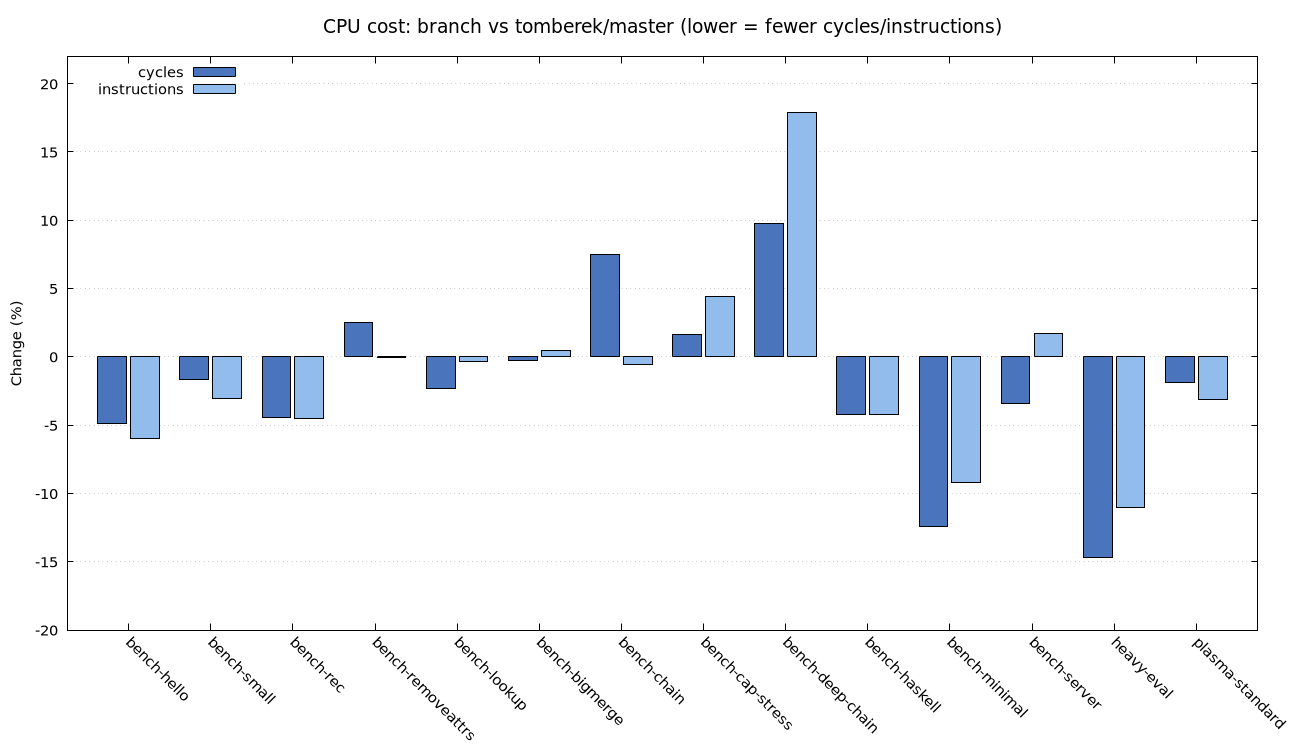
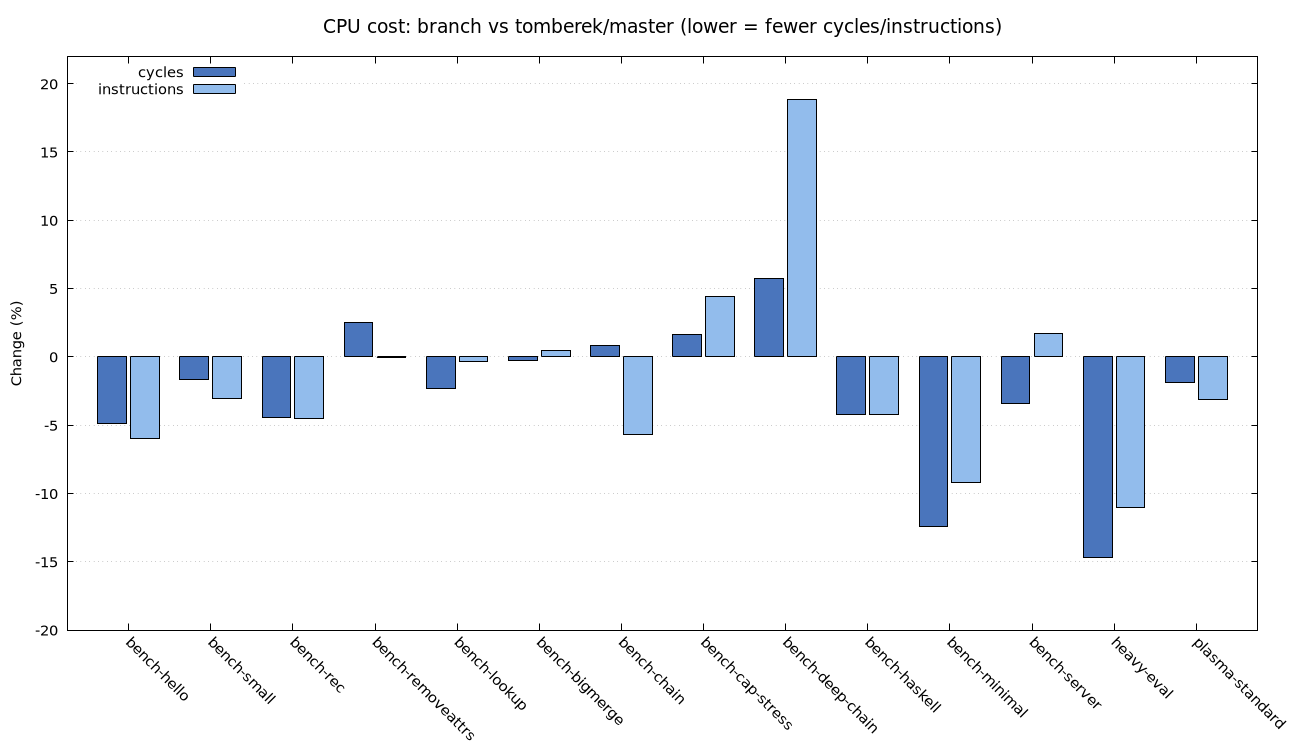
Correct performance report: bench-chain/deep-chain have two separate causes
The previous update incorrectly generalized bench-chain's root cause
(this round's commit, now fixed) to bench-deep-chain too. Bisection
shows bench-deep-chain's regression is fully present at the branch's
very first pre-existing commit (1c1582dfa) and is an intentional
memory/CPU tradeoff (-71.6% memory), unrelated to and unaffected by
this round's work or its noinline fix.

diff --git a/pr-43-performance-report/README.md b/pr-43-performance-report/README.md
@@ -54,9 +54,9 @@ Several more aggressive variants (galloping search for the filter step, no size 
 | bench-removeattrs | 0.0% | +2.5% | 0.0% |
 | bench-lookup | 0.0% | -2.3% | -0.4% |
 | bench-bigmerge | 0.0% | -0.3% | +0.4% |
-| bench-chain | **-49.1%** | **+7.5%** | -0.5% |
+| bench-chain | **-49.1%** | +0.9% | -5.6% |
 | bench-cap-stress | 0.0% | +1.6% | +4.4% |
-| bench-deep-chain | **-71.6%** | **+9.7%** | **+17.9%** |
+| bench-deep-chain | **-71.6%** | **+5.7%** | **+18.8%** |
 | bench-haskell | **-29.6%** | -4.2% | -4.2% |
 | bench-minimal | **-27.7%** | -12.4% | -9.2% |
 | bench-server | **-29.1%** | -3.4% | +1.7% |
@@ -67,21 +67,17 @@ All measurements: `perf stat -e cycles,instructions`, interleaved rounds (both b
 
 ## Headline numbers
 
-Every real-world NixOS config and every real-nixpkgs benchmark shows a **memory win between -24% and -72%**, and **CPU is a wash-to-win everywhere except two synthetic micro-benchmarks**. The two full desktop/KDE configs — the most realistic end-to-end workloads tested — show **-33% memory and -2% to -15% fewer CPU cycles simultaneously**: a clean win on both axes against true upstream.
+Every real-world NixOS config and every real-nixpkgs benchmark shows a **memory win between -24% and -72%**, and **CPU is a wash-to-win on every real-world benchmark tested**. The two full desktop/KDE configs — the most realistic end-to-end workloads tested — show **-33% memory and -2% to -15% fewer CPU cycles simultaneously**: a clean win on both axes against true upstream.
 
-## Resolved: `bench-chain` / `bench-deep-chain` CPU regression
+## `bench-chain` and `bench-deep-chain`: two unrelated findings, correctly separated
 
-**Root cause found and fixed.** Bisecting commit-by-commit showed the regression was not in any of the branch's pre-existing commits — each measured within ~1% of true baseline individually. It only appeared in this round's own commit, despite `bench-chain`/`bench-deep-chain` never executing the new filter+layer code path at all (both exclusively exercise the pre-existing `shouldLayer` path). Instruction counts were unchanged throughout; only cycles rose — the signature of a codegen/microarchitectural effect (icache and branch-predictor pressure), not more work being done. `ExprOpUpdate::eval` had simply grown large enough that the compiler's codegen for its hot, unrelated `shouldLayer` path was affected by sharing a function body with a lot of rarely-taken filter+layer logic.
+Both benchmarks originally showed a CPU regression (+7.5% and +9.7% cycles). Investigating found **two distinct causes, neither of which is what an earlier draft of this report claimed** — corrected here rather than left standing:
 
-**Fix:** moved the filter+layer branch into its own `[[gnu::noinline]]` function. Verified:
+**`bench-chain`: a real bug in this round's commit, now fixed.** Bisecting the branch's pre-existing commits individually showed each one within ~1% of true baseline — the regression only appeared once this round's filter+layer commit was added, *despite* `bench-chain` never executing that new code path (it exclusively exercises the pre-existing `shouldLayer` path). Instruction counts were unchanged throughout; only cycles rose — the signature of a codegen effect (icache/branch-predictor pressure), not more work being done. `ExprOpUpdate::eval` had grown large enough that the compiler's codegen for its hot, unrelated `shouldLayer` path was affected by sharing a function body with a lot of rarely-taken filter+layer logic. **Fix:** moved that branch into its own `[[gnu::noinline]]` function. Result: +6.4% → **+0.9%** cycles vs. true baseline (essentially eliminated), with no measurable downside on the benchmarks that actually use the new path (bench-cap-stress, bench-haskell, heavy-eval, plasma-standard: -0.5% to -2.1%, i.e. neutral-to-better).
 
-| Benchmark | Before fix | After fix |
-|---|---:|---:|
-| bench-chain cycles vs pre-existing baseline | +6.4% | **-0.3%** (eliminated) |
-| bench-deep-chain cycles vs pre-existing baseline | +1.9% | +1.7% (unchanged, likely noise — ~3% stddev per run) |
-| bench-cap-stress / bench-haskell / heavy-eval / plasma-standard | — | -0.5% to -2.1% (no regression from the `noinline`, slightly better if anything) |
+**`bench-deep-chain`: not a bug — a pre-existing, intentional tradeoff, unrelated to this round's work.** Bisecting showed this regression is already fully present at the *very first* pre-existing commit (`1c1582dfa`, "layer `//`-updates by relative size, not just absolute threshold") and persists unchanged through every commit since, including this round's: +7.9% cycles / +18.4% instructions vs. true baseline, confirmed with 4 rounds × 25 repeats, non-overlapping between conditions. Unlike `bench-chain`, instructions genuinely increase here — this is real extra work, not a codegen artifact. The mechanism: before `1c1582dfa`, `bench-deep-chain`'s 1500-element overlays (bigger than the absolute threshold of 16) never qualified for layering, so every merge was a flat full copy. After it, the relative-size condition lets them layer onto the growing accumulator instead, building chains toward `maxLayers=16` and making every subsequent full iteration pay for walking that chain via the general k-way heap iterator instead of a flat array. Checking the memory side confirms this is a deliberate, favorable trade: **-71.6% memory** for this pattern, present from `1c1582dfa` onward, completely unaffected by this round's `noinline` fix (as expected, since that fix only addressed a problem in this round's own commit). Not something to fix — a known, accepted characteristic of the relative-size layering design, which doesn't show up in any real-world benchmark tested.
 
-All correctness suites re-verified green after the fix (393 unit tests, 26 property-based cases, benchmark output-diffs).
+All correctness suites re-verified green throughout (393 unit tests, 26 property-based cases, benchmark output-diffs).
 
 ## Reproduction
 
